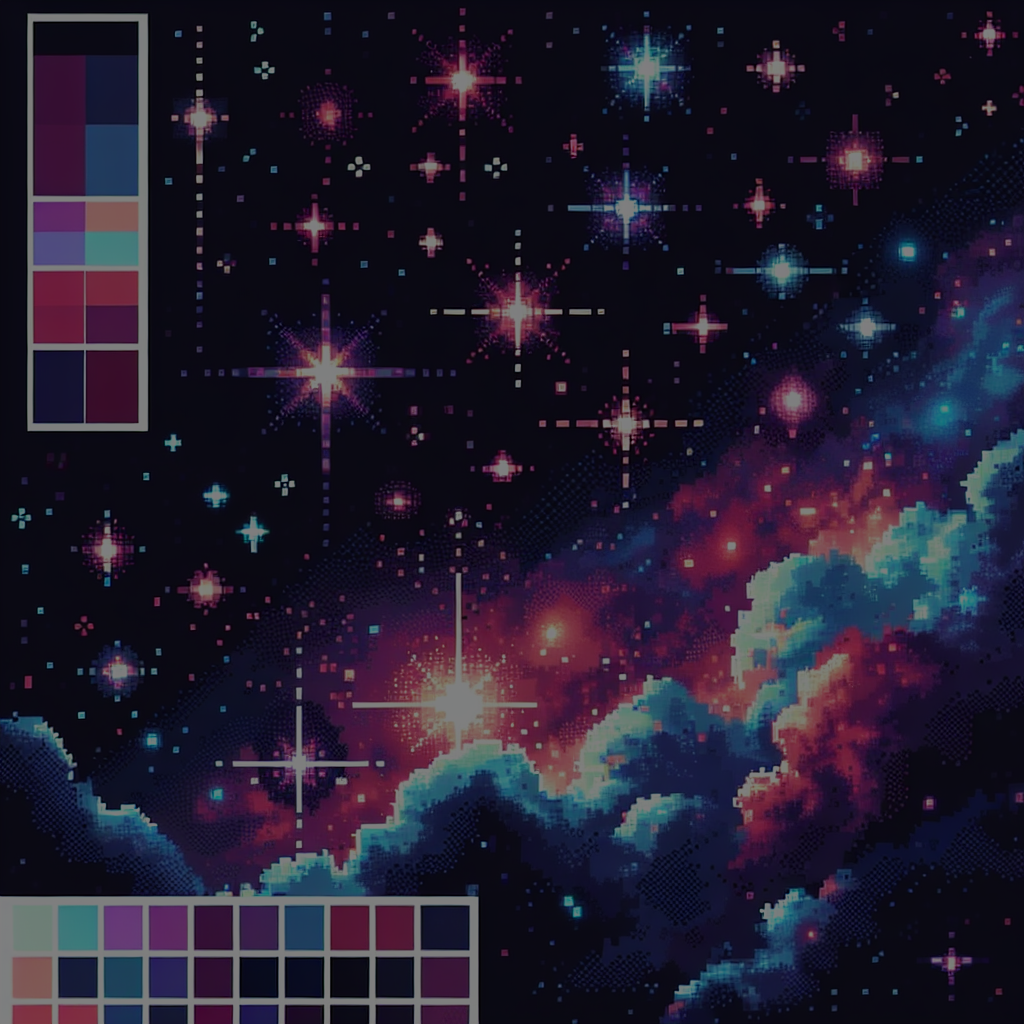
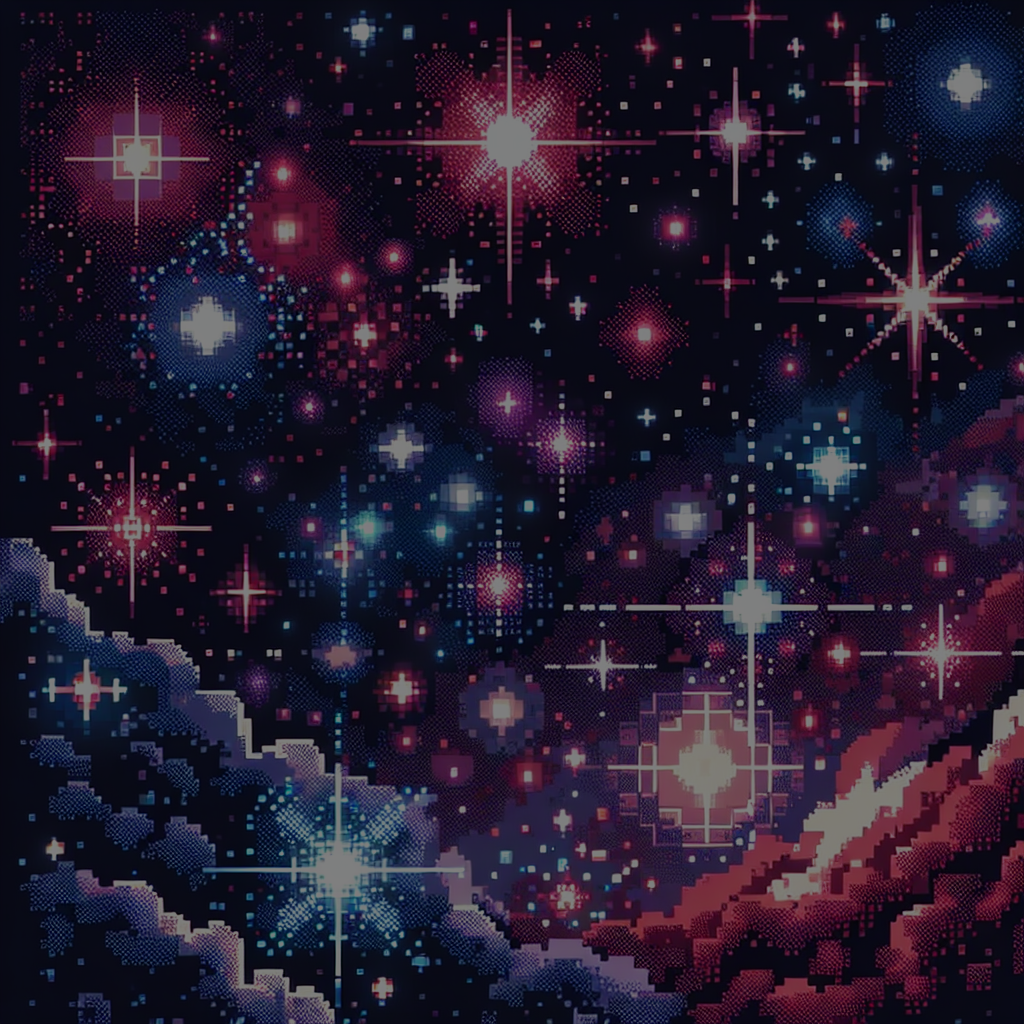
fixed up home screen a bit, changed background

diff --git a/main.py b/main.py
@@ -15,28 +15,69 @@ from classes.items import Shard
 from classes.crafter import Crafter
 from classes.planet import * 
 
+
+def draw_stars(screen, num_stars=100):
+    """Draw randomly placed stars for the background."""
+    for _ in range(num_stars):
+        star_color = (255, 255, 255)  # White stars
+        star_pos = (random.randint(0, WIDTH), random.randint(0, HEIGHT))
+        pygame.draw.circle(screen, star_color, star_pos, 2)  # Small star size
+
 def home_screen():
-    # Load title font and button font
-    title_font = pygame.font.Font(None, 100)
+    # Load title font, button font, and input font
+    title_font = pygame.font.Font(None, 120)  # Sci-fi themed font or default pygame font
     button_font = pygame.font.Font(None, 50)
-    
+    input_font = pygame.font.Font(None, 40)  # Font for text input
+    label_font = pygame.font.Font(None, 40)  # Font for the label
+
     # Create text surfaces
-    title_text = title_font.render("Wizard Game", True, (255, 255, 255))
+    title_text = title_font.render("Wizard Game", True, (255, 255, 255))  # White text for space theme
     start_text = button_font.render("Start Game", True, (255, 255, 255))
     exit_text = button_font.render("Exit", True, (255, 255, 255))
     
     # Define button rectangles
     start_button = start_text.get_rect(center=(WIDTH // 2, HEIGHT // 2 - 50))
     exit_button = exit_text.get_rect(center=(WIDTH // 2, HEIGHT // 2 + 50))
+
+    # Text input box setup
+    input_box_rect = pygame.Rect(WIDTH // 2 - 150, HEIGHT // 2 + 150, 300, 50)  # Input box rectangle
+    input_text = ''  # Text the player types
+    input_active = False  # Whether the input box is active (clicked)
+    
+    # Label for the text box
+    label_text = label_font.render("Enter Biome Type:", True, (255, 255, 255))
+
+    # Colors
+    box_color_inactive = pygame.Color('lightskyblue3')
+    box_color_active = pygame.Color('dodgerblue2')
+    box_color = box_color_inactive
+
+    # Load or generate a space background
+    background_image = pygame.image.load("background_0.png").convert()  # Replace with your space image
     
     # Home screen loop
+    biome_type = None  # Variable to store the biome type
     while True:
-        screen.fill((0, 0, 0))  # Clear the screen with black
+        # Draw the space background
+        screen.blit(background_image, (0, 0))
+        
+        # Optionally, draw stars dynamically
+        draw_stars(screen, num_stars=150)
         
         # Draw title and buttons
         screen.blit(title_text, (WIDTH // 2 - title_text.get_width() // 2, 100))
-        screen.blit(start_text, start_button.topleft)  # Correctly position the button
-        screen.blit(exit_text, exit_button.topleft)  # Correctly position the button
+        screen.blit(start_text, start_button)
+        screen.blit(exit_text, exit_button)
+        
+        # Draw the label for the text box
+        screen.blit(label_text, (input_box_rect.x, input_box_rect.y - 40))
+        
+        # Draw the text input box
+        pygame.draw.rect(screen, box_color, input_box_rect, 2)
+        
+        # Render the current input text
+        input_surface = input_font.render(input_text, True, (255, 255, 255))
+        screen.blit(input_surface, (input_box_rect.x + 10, input_box_rect.y + 10))
         
         pygame.display.flip()  # Update the display
         
@@ -46,12 +87,36 @@ def home_screen():
                 sys.exit()
                 
             elif event.type == pygame.MOUSEBUTTONDOWN:
-                mouse_pos = event.pos
-                if start_button.collidepoint(mouse_pos):
-                    return  # Start the game
-                elif exit_button.collidepoint(mouse_pos):
+                # If the user clicks inside the input box, activate it
+                if input_box_rect.collidepoint(event.pos):
+                    input_active = not input_active
+                else:
+                    input_active = False
+                # Change the color of the input box based on whether it's active
+                box_color = box_color_active if input_active else box_color_inactive
+                
+                # Check for button clicks
+                if start_button.collidepoint(event.pos):
+                    biome_type = input_text  # Save the typed biome type
+                    print(f"Starting game with biome type: {biome_type}")  # Print the biome type
+                    return biome_type  # Return the biome type for use in the game
+                elif exit_button.collidepoint(event.pos):
                     pygame.quit()
                     sys.exit()  # Exit the game
+
+            elif event.type == pygame.KEYDOWN:
+                if input_active:
+                    if event.key == pygame.K_RETURN:
+                        biome_type = input_text  # Save the typed biome type when pressing Enter
+                        print(f"Entered biome type: {biome_type}")
+                        input_text = ''  # Clear the input after pressing enter (optional)
+                    elif event.key == pygame.K_BACKSPACE:
+                        input_text = input_text[:-1]  # Remove the last character
+                    else:
+                        input_text += event.unicode  # Add the typed character to 
+
+        
+
 # Initialize Pygame
 pygame.init()
 
